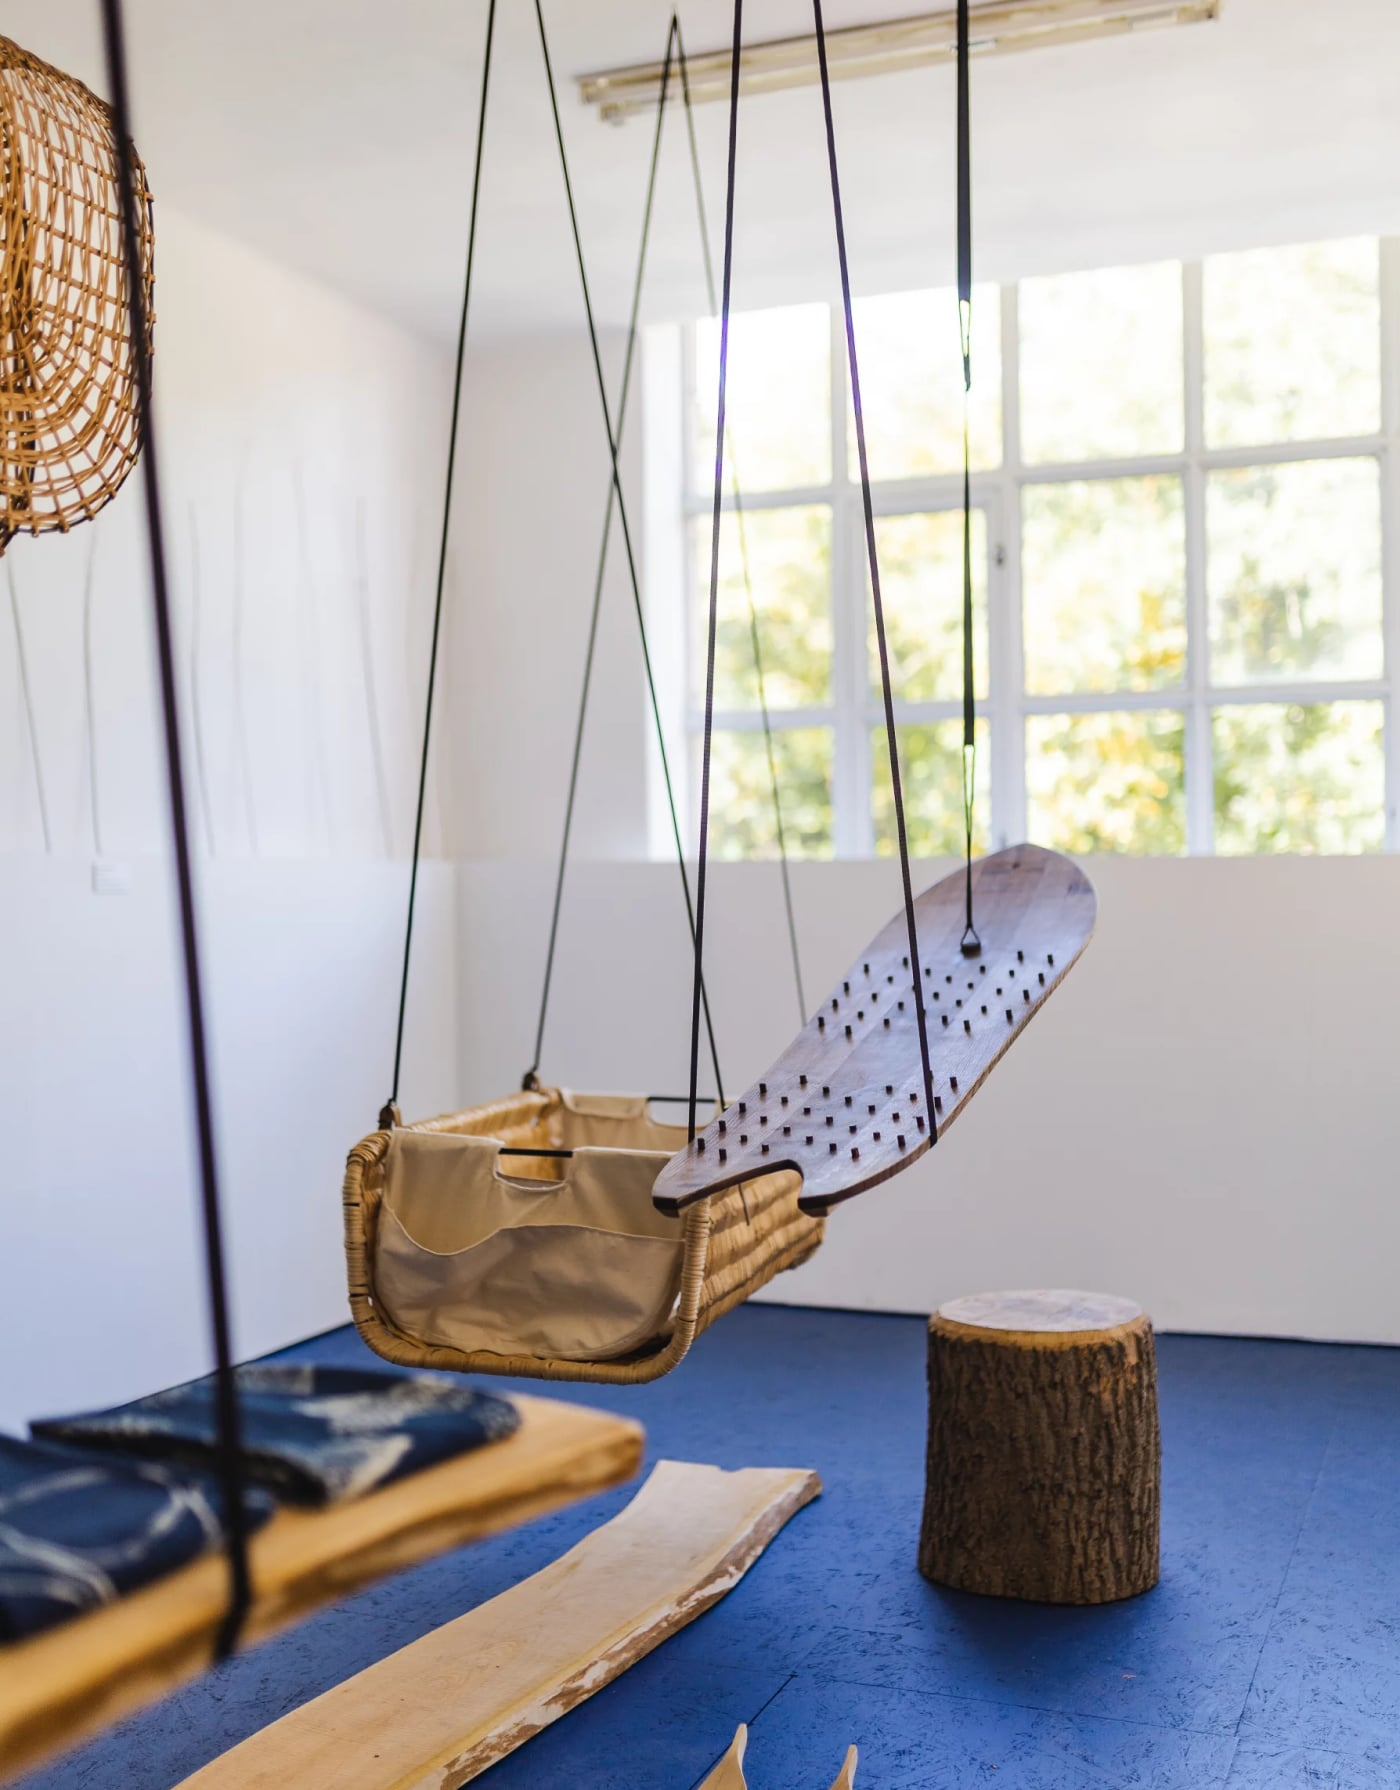
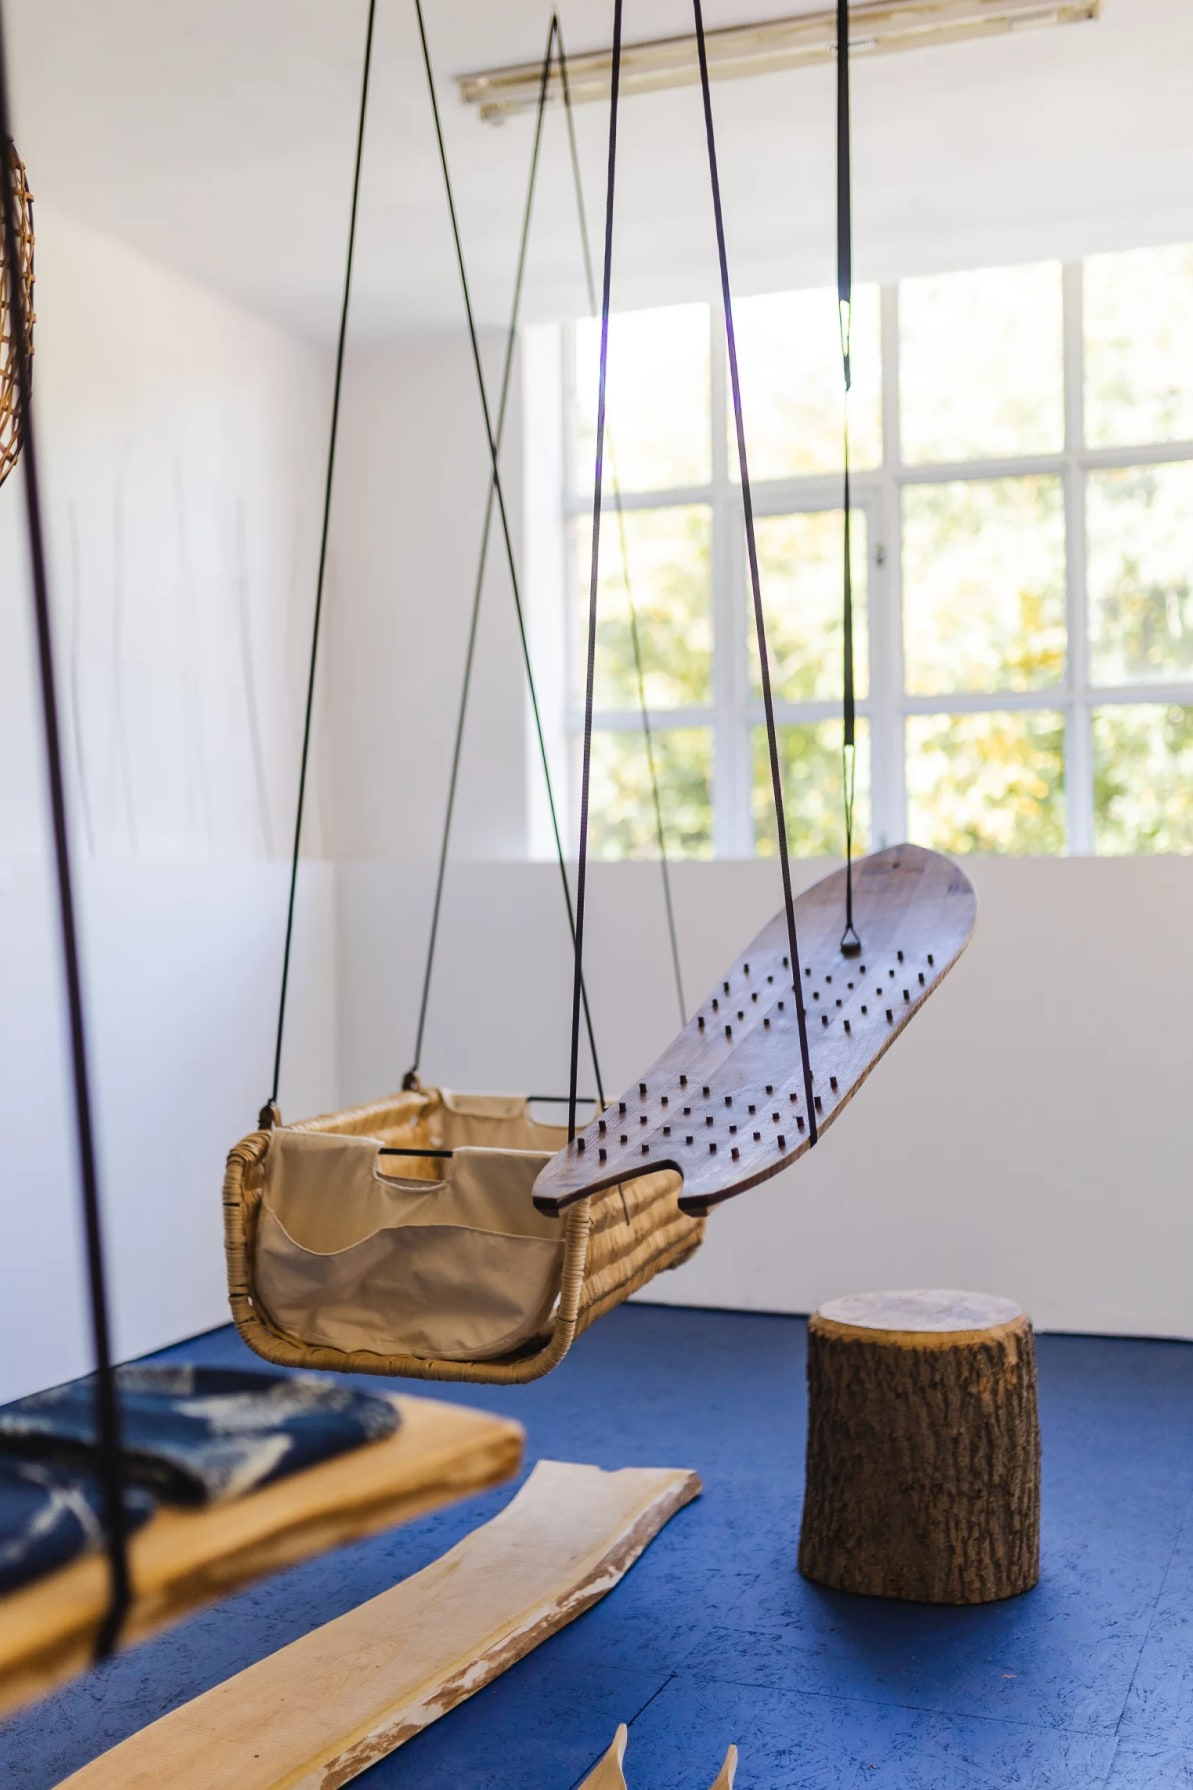
Rhea page: add text columns and refine the gallery
- Add the two translated text columns under the hero photo (each
  column now takes a list of paragraphs), balanced to similar height
- Gallery photos now sit 100px apart horizontally
- Swap the signs and swing photos, make the hands/strap photos the
  same size as the rocker photo, and crop the swing photo to 2:3 to
  match the other vertical photos

diff --git a/src/data/projects.ts b/src/data/projects.ts
@@ -38,8 +38,8 @@ export interface ProjectDetail {
   /** Portrait photo shown beside the intro text. */
   intro?: ImageMetadata;
   credits?: string[];
-  /** Two text columns shown under the hero photo. */
-  columns?: [string, string];
+  /** Two text columns (each a list of paragraphs) shown under the hero photo. */
+  columns?: [string[], string[]];
   gallery: GalleryImage[];
 }
 
@@ -123,13 +123,23 @@ export const projects: Project[] = [
     detail: {
       intro: rheaIntro,
       credits: ['Collaboration: Jan Kráľ', 'Photography: Tereza Horičková'],
+      columns: [
+        [
+          'When I was little, my parents would put me down to sleep in the fresh air in good weather, in a basket hung on the terrace, rocking me to sleep as I lay there. This motion is pleasantly soothing for small children. I tried to make use of these memories: my cradle can be rocked, can stand firmly on the floor, and can also be hung from a ceiling or a terrace. This is possible thanks to a simple anti-rocking brake in the form of a wooden log, and thanks to leather straps that can be attached not only to the frame but also to ropes, so the cradle can be suspended in the space.',
+          'I spent several days in the workshop of basket weaver Peter Kráľ, helping him weave a basket, or rather trying to.',
+        ],
+        [
+          'Weaving in the willow rods is physically demanding work that requires strong hands, and after just a few rods mine always started to ache. Mr. Kráľ, however, managed it with ease, and the basket was finished in 3 days.',
+          'Besides the skilled craftsmen and myself, I involved my whole family in the production. My father and I found old leather from a gym mat, my uncle brought plywood, my grandmother linen sheets: simply “whatever the house could give”. It seems to me that even this process continues traditions of the past. When a woman was expecting a baby, the whole family pooled together whatever it had, so that the new arrival would feel good from the very first moment.',
+        ],
+      ],
       gallery: [
         { src: rheaStraw, alt: 'Bundles of willow rods in the workshop', col: 'left', size: 82 },
         { src: rheaLegs, alt: 'The cradle’s rocking runners on a tiled floor', col: 'right' },
-        { src: rheaHands, alt: 'Fastening the canvas lining inside the cradle', col: 'left', size: 82 },
-        { src: rheaSwing, alt: 'Rhea hung as a swing in the exhibition', col: 'right', size: 75 },
-        { src: rheaBelt, alt: 'Leather strap and woven rim detail', col: 'left', size: 82 },
+        { src: rheaHands, alt: 'Fastening the canvas lining inside the cradle', col: 'left' },
         { src: rheaSigns, alt: 'Craft certification signs in the basket weaver’s workshop', col: 'right' },
+        { src: rheaBelt, alt: 'Leather strap and woven rim detail', col: 'left' },
+        { src: rheaSwing, alt: 'Rhea hung as a swing in the exhibition', col: 'right', size: 75 },
         { src: rheaRocker, alt: 'Steel frame joined to a wooden runner', col: 'left' },
         { src: rheaBaby, alt: 'A baby lying in the cradle', col: 'right', size: 75 },
       ],
